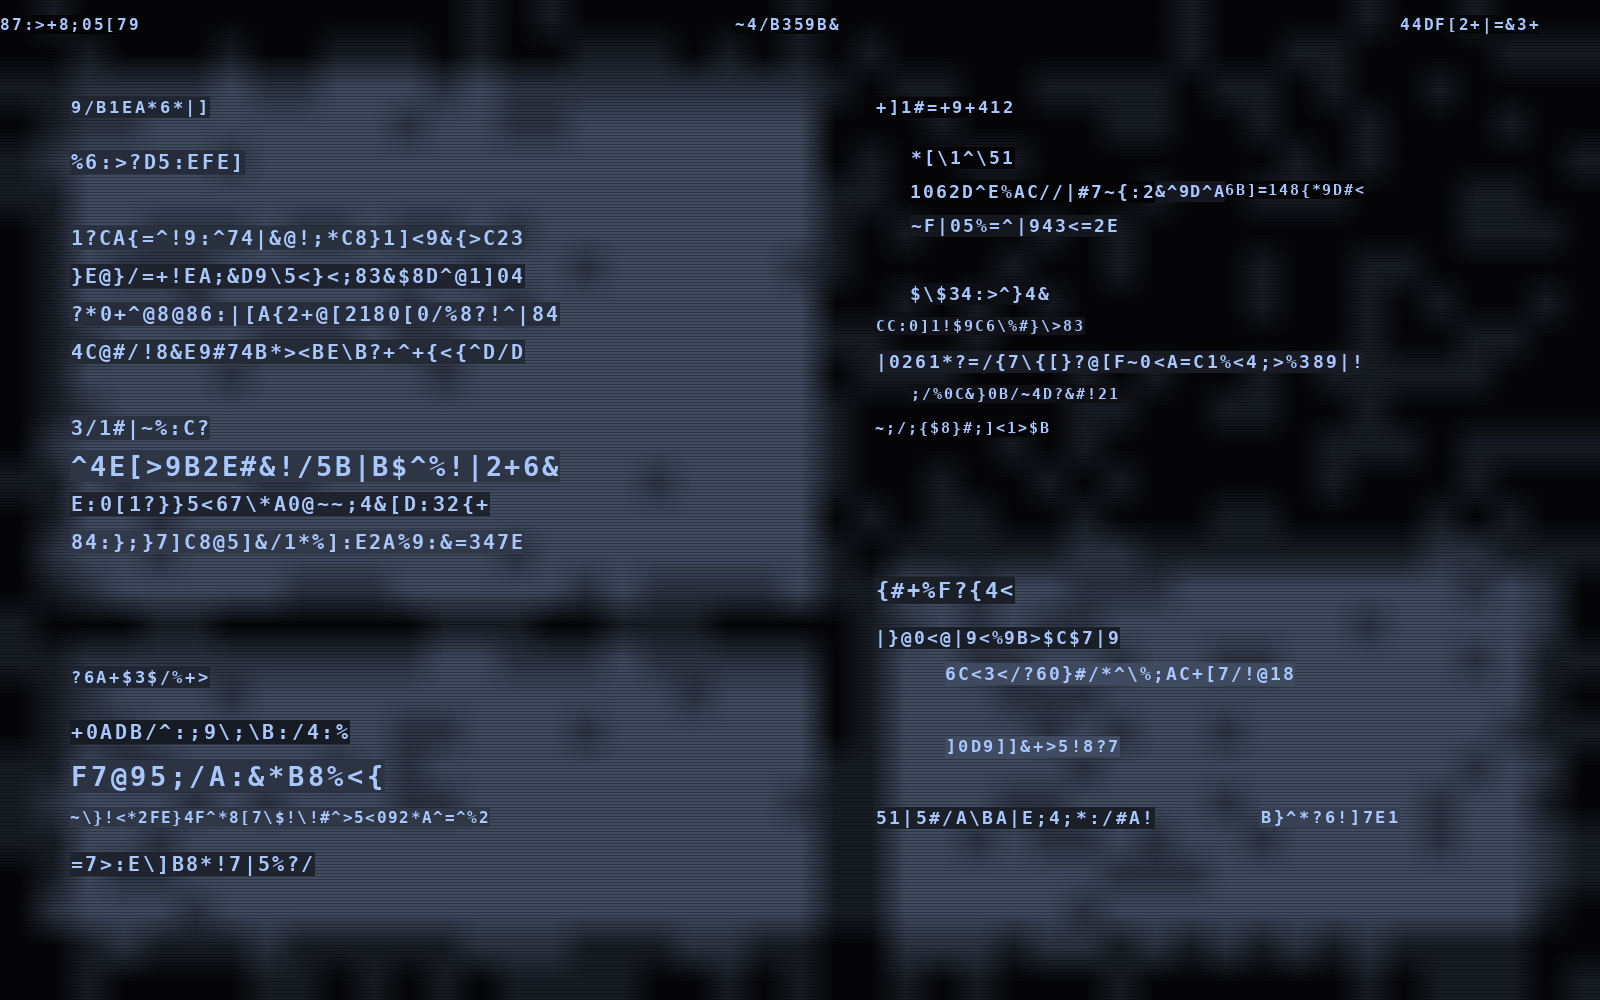
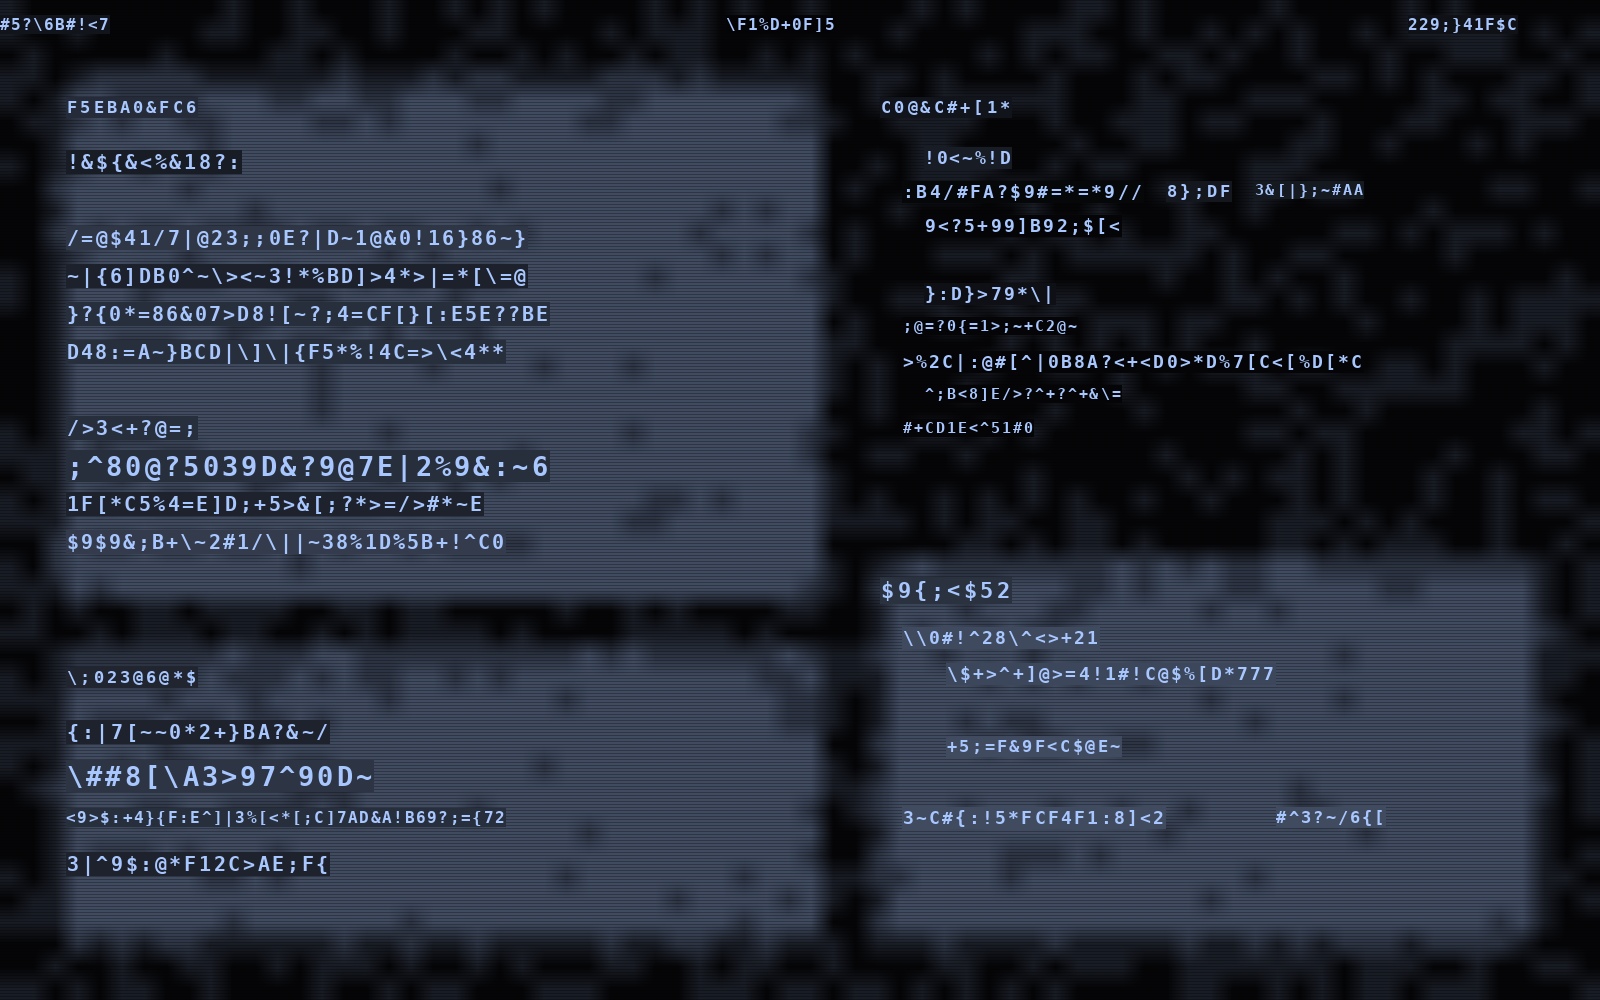
Finer background grid (45 rows)
Cells stay taller than a text line, so no characters are recoverable, but window layout reads better.

diff --git a/README.md b/README.md
@@ -98,9 +98,9 @@ GlitchCrypt is built to show as little of your screen as possible:
 - **The real screen is never shown, not even blurred.** Blurring isn't
   redaction: it can be partly reversed by deconvolution, and blurred text can
   be matched by blurring guesses the same way. GlitchCrypt instead averages
-  the screen down to a grid about 28 cells tall, each cell roughly two text
-  lines high. It then quantises every cell to one of 4 grey levels with
-  random dither. That throws the detail away for good: about 2 bits per cell
+  the screen down to a grid 45 cells tall, so each cell is taller than a
+  line of text and several characters wide. It then quantises every cell to
+  one of 4 grey levels with random dither. That throws the detail away for good: about 2 bits per cell
   survive, which is enough to show "something is here" but nowhere near
   enough to hold text. OCR finishes before the window opens, so the very
   first frame is already fully encrypted.
